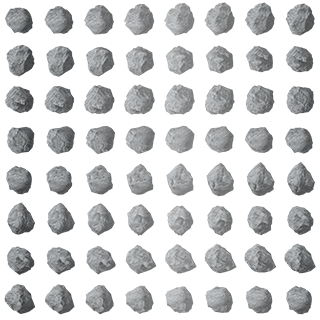
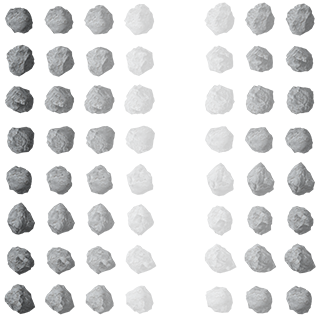
different invencible animation

diff --git a/js/astattack/asteroid.js b/js/astattack/asteroid.js
@@ -6,6 +6,7 @@
   var Timing = LNXCommons.Timing;
 
   var LIFE_POINTS_PER_SHOT = 20;
+  var SECONDS_INVENCIBLE = 1.5
 
   namespace.Asteroid = function(x, y) {
     var callbacks = Callbacks.initializeFor(this);
@@ -93,7 +94,7 @@
         "moveDown": function()  { directionY = "down";  isOutOfScreenBottom() ? physic.velocityY(-1*Y_SPEED) : physic.velocityY(0); },
         "stopX": function()     { directionX = "";      physic.velocityX(0); },
         "stopY": function()     { directionY = "";      physic.velocityY(0); },
-        "recover": function()   { physic.disable(); invencible = true; Timing.timeout(function(){ invencible = false; physic.enable() }, 3)}
+        "recover": function()   { physic.disable(); invencible = true; Timing.timeout(function(){ invencible = false; physic.enable() }, SECONDS_INVENCIBLE)}
       }
     });
 

diff --git a/js/astattack/asteroidGraphics.js b/js/astattack/asteroidGraphics.js
@@ -14,7 +14,7 @@
 
     function init() {
       normalTexture = PIXI.loader.resources["./img/asteroid_sprite.png"].texture;
-      recoveringTexture = PIXI.loader.resources["./img/asteroid_hitted.png"].texture;
+      recoveringTexture = PIXI.loader.resources["./img/asteroid_invencible.png"].texture;
       sprite = new PIXI.Sprite(normalTexture);
       animations = createAnimationsFor(sprite);
       animations["dead"].listen("animationEnd", function() {
